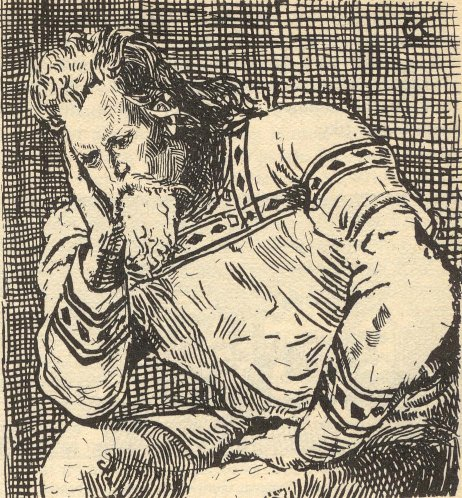
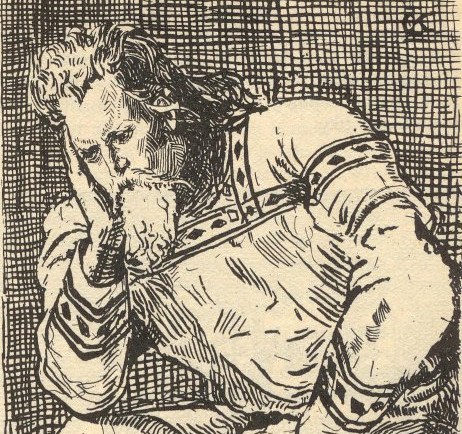
Standardize wokeism casting comparisons and add Helen pair.
Use fixed-aspect-ratio image frames, updated swap-pictures assets, Helen
of Troy card, and athena-fake.jpg; remove unused screenshot and old fresco.

diff --git a/css/styles.css b/css/styles.css
@@ -102,16 +102,35 @@ body { display: flex; flex-direction: column; min-height: 100vh; font-family: sy
 .card.swap-compare-card {
     overflow: visible;
 }
-.card.swap-compare-card img {
-    display: block;
-    width: auto;
+.swap-compare-img-col {
+    text-align: center;
+    display: flex;
+    flex-direction: column;
+    align-items: center;
+}
+.swap-compare-img-frame {
+    width: 100%;
+    max-width: 360px;
+    aspect-ratio: 707 / 626;
+    background: rgba(0, 0, 0, 0.04);
+    border-radius: 0.375rem;
+    overflow: hidden;
+    display: flex;
+    align-items: center;
+    justify-content: center;
+}
+.card.swap-compare-card .swap-compare-img-frame img {
+    width: 100%;
+    height: 100%;
     max-width: 100%;
-    height: auto;
-    max-height: min(85vh, 720px);
+    max-height: 100%;
     object-fit: contain;
-    object-position: center top;
-    margin-left: auto;
-    margin-right: auto;
+    object-position: center center;
+    margin: 0;
+    display: block;
+}
+.card.swap-compare-card .row.g-3 {
+    align-items: stretch;
 }
 .card-body { padding: 1rem; }
 .card time { display: block; font-size: 0.85rem; color: #555; margin-bottom: 0.5rem; }
